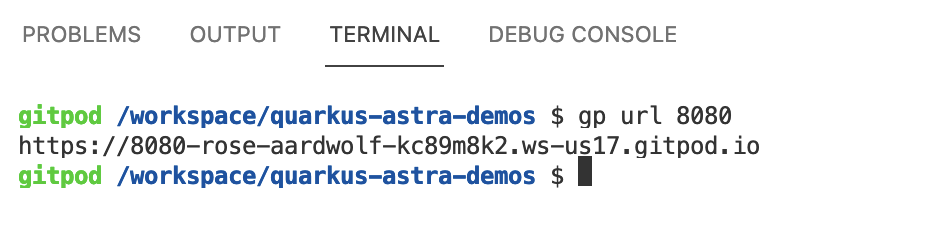
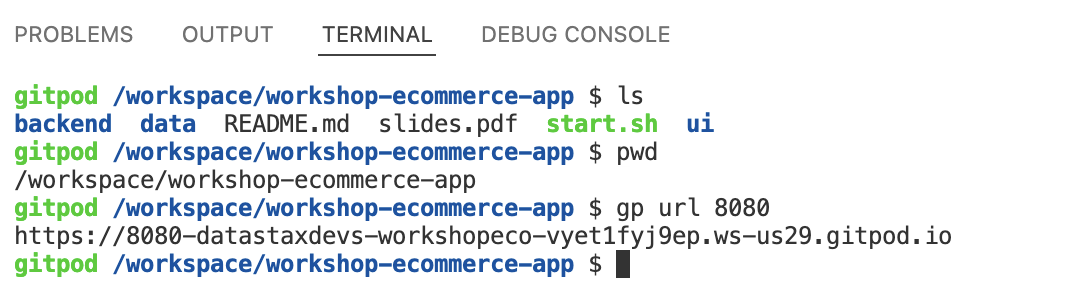
expanded and cleaned up

Changed region(s): [[0.0, 0.254, 0.889, 0.9315], [0.0, 0.0847, 0.7357, 0.1976]]

diff --git a/README.md b/README.md
@@ -398,24 +398,6 @@ You can always get back to the file explorer view whenever by clicking on the ha
 
 ![gitpod](data/img/Filexplorer0.png?raw=true)
 
-✅ **Know your public URL**
-
-The workshop application has opened with an ephemeral URL. To know the URL where your application endpoint will be exposed you can run the following command in the terminal after the build has completed. **Please note this URL and open this up in a new browser window as shown below**.
-
-```bash
-gp url 8080
-```
-
-**👁 Expected output**
-
-![gitpod](data/img/gitpod-02-url.png?raw=true)
-
-
-Pay attention to popups being blocked as shown below and allow the popups.
-
-![gitpod](data/img/PopupBlocked.png?raw=true)
-
-You may encounter the following at different steps and although this may not be applicable right away, the steps are included **in advance** and summarized here so that you can keep an eye out for it. Different paths and different environments might be slightly different although Gitpod levels the playing field a bit.
 
 You can allow cutting and pasting into the window by clicking on `Allow` as shown below.
 
@@ -572,7 +554,6 @@ cd /workspace/workshop-ecommerce-app
 mvn install -f backend/pom.xml -DskipTests
 ```
 
-
 ![image](data/img/swagger.png?raw=true)
 
 It sets up the backend open APIs that enables the frontend to obtain the data.
@@ -583,11 +564,91 @@ It sets up the backend open APIs that enables the frontend to obtain the data.
 
 ## 9. Start the Application
 
-We've provided a convenience script that can be run as below.
+✅ **9a: Know your public URL**
+
+The workshop application has opened with an ephemeral URL. To know the URL where your application endpoint will be exposed you can run the following command in the terminal after the build has completed. **Please note this URL and we will open this up in a new browser window if required later **.
+
+```bash
+gp url 8080
+```
+**👁 Expected output**
+
+![gitpod](data/img/gitpod-02-url.png?raw=true)
+
+✅ **9b: Check APIs are not available (yet)**
+
+Run the following command in the Gitpod terminal window
+
+```
+curl localhost:8080/api/v1/products/product/LS534S
+```
+**👁 Expected output**
+
+```
+curl: (7) Failed to connect to localhost port 8080: Connection refused
+```
+
+Not to be overly concerned as we're going to be starting the application that will be served from the port.
+
+✅ **9c: Start the application **
+
+To start the application, we've provided a very simple convenience script that can be run as below.
 
 ```bash
 ./start.sh
 ```
+
+Pay attention to popups being blocked as shown below and allow the popups.
+
+![gitpod](data/img/PopupBlocked.png?raw=true)
+
+You may encounter the following at different steps and although this may not be applicable right away, the steps are included **in advance** and summarized here so that you can keep an eye out for it. Different paths and different environments might be slightly different although Gitpod levels the playing field a bit.
+
+Your e-commerce application should be up and running.
+
+✅ **9d: Check APIs are now available**
+
+Get back to Gitpod tab/window.
+
+Leave the application running and open up another `shell` in the Gitpod terminal window by clicking on `+` and clicking on `bash` dropdown as shown below.
+
+![gitpod](data/img/gitpod-newbash1.png?raw=true)
+
+This will bring up a new `bash` shell as shown below.
+
+![gitpod](data/img/gitpod-newbash2.png?raw=true)
+
+Issue the following command in that shell as you did earlier.
+
+```
+curl localhost:8080/api/v1/products/product/LS534S
+```
+
+and you should see some output indicating that the API server is serving our ecommerce APIs.
+
+**👁 Expected output**
+
+![gitpod](data/img/gitpod-newbash3.png?raw=true)
+
+Try a few other APIs (**Hint: Look for the `RestController` java files in the respective sub-directories.**).
+
+✅ **9e: OPTIONAL - Open in Gitpod preview window**
+
+This might be useful for troubleshooting if your application does not automatically open up a browser tab.
+
+If you want, you can run the following command to open your application in the preview window of Gitpod (it's much easier to use the app running in browser, though).
+
+```
+gp preview $(gp url 8080)
+```
+
+As indicated in the output below it's a very `Simple Browser`.
+
+**👁 Expected output**
+
+![gitpod](data/img/gitpod-preview-1.png?raw=true)
+
+If your application is running in the preview window but you have difficulty accessing it from the browser pay attention to popups being blocked by the browser as explained before.
 
 [🏠 Back to Table of Contents](#-table-of-contents)
 
